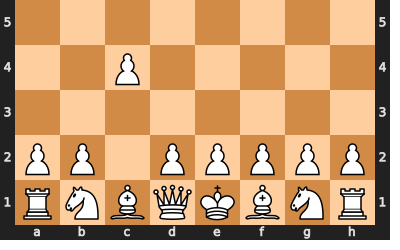
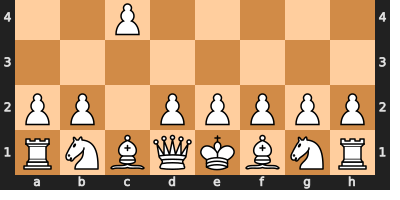
only draw to the highest rank

diff --git a/gen/chess_image_generator.py b/gen/chess_image_generator.py
@@ -3,7 +3,7 @@ import chess.svg
 import cairosvg
 from xml.etree import ElementTree as ET
 
-def generate_opening_image(name, fen, output_dir="chess_openings"):
+def generate_opening_image(name, fen, output_dir):
     """
     Generate an SVG and PNG image for a chess opening position.
     
@@ -23,6 +23,12 @@ def generate_opening_image(name, fen, output_dir="chess_openings"):
             rank = chess.square_rank(square) + 1  # Convert 0-7 to 1-8
             highest_rank = max(highest_rank, rank)
     
+    # Use exactly the highest rank without adding an extra one
+    visible_ranks = highest_rank
+    
+    # Print debugging information
+    print(f"{name}: Highest white piece on rank {highest_rank}, showing {visible_ranks} ranks")
+    
     # Generate SVG
     svg_board = chess.svg.board(
         board,
@@ -38,12 +44,7 @@ def generate_opening_image(name, fen, output_dir="chess_openings"):
     # Each rank is 50 pixels (400px / 8 ranks)
     pixels_per_rank = 400 / 8
     
-    # Add one rank above the highest piece for better visibility
-    visible_ranks = min(highest_rank + 1, 8)
-    
     # Calculate the y-coordinate for the viewBox (from bottom)
-    # For example, if highest_rank is 5, we want to show ranks 1-5 plus one extra
-    # So we'd show 6 ranks out of 8, starting at y=100 (skipping ranks 7-8)
     y_start = 400 - (visible_ranks * pixels_per_rank)
     height = visible_ranks * pixels_per_rank
     
@@ -61,4 +62,4 @@ def generate_opening_image(name, fen, output_dir="chess_openings"):
     
     # Convert to PNG
     png_path = f"{output_dir}/{name}.png"
-    cairosvg.svg2png(bytestring=modified_svg.encode('utf-8'), write_to=png_path) 
+    cairosvg.svg2png(bytestring=modified_svg.encode('utf-8'), write_to=png_path)
